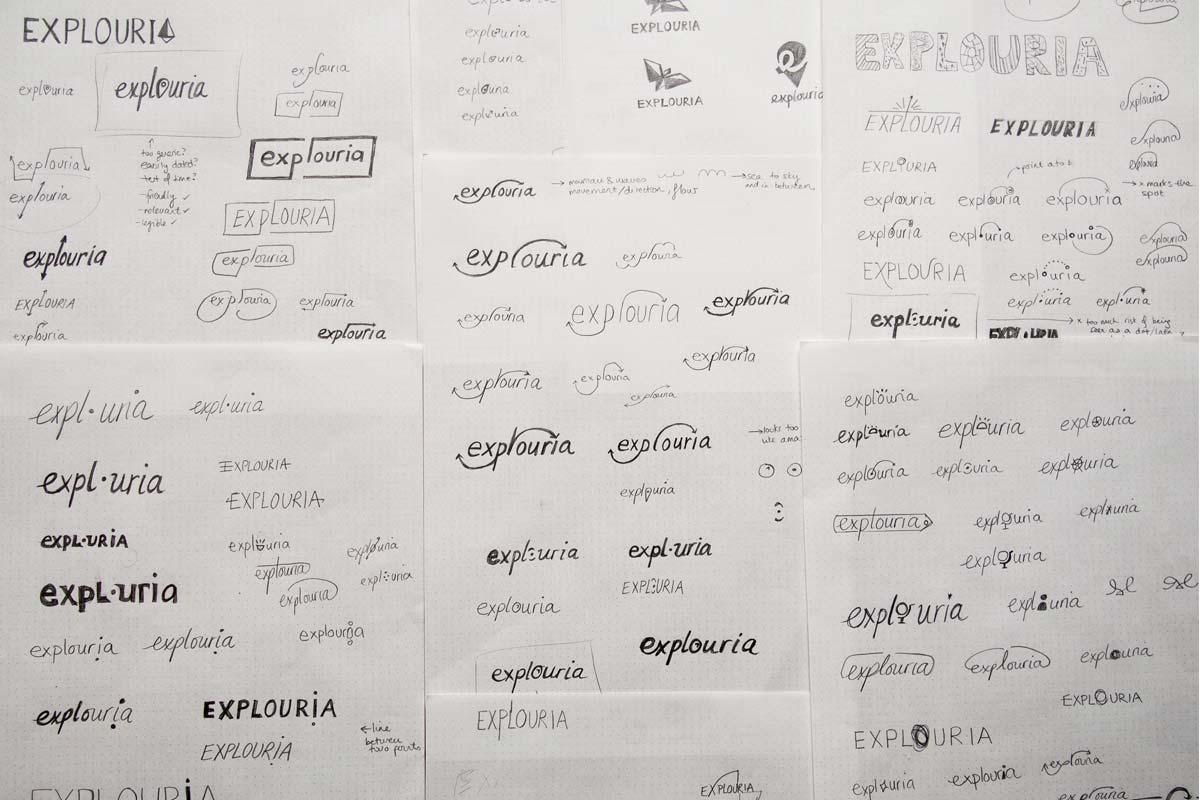
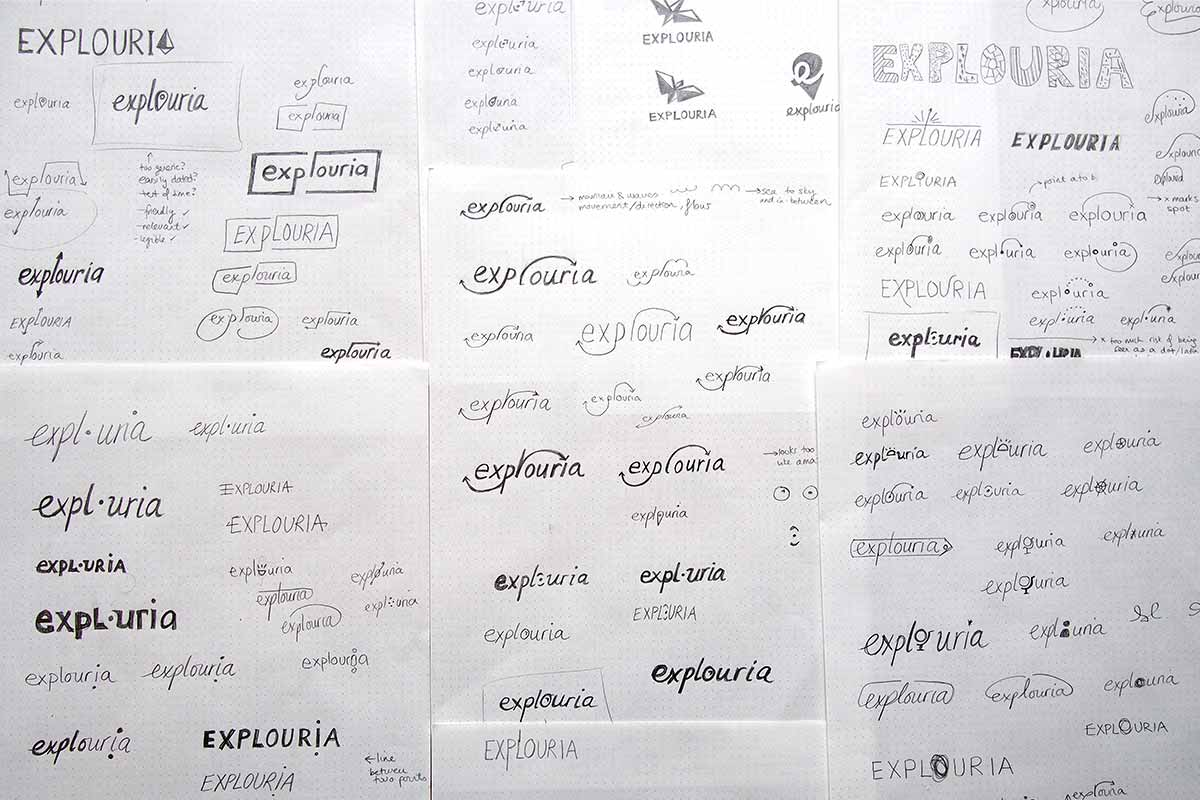
updates case study images

diff --git a/css/main.css b/css/main.css
@@ -203,7 +203,7 @@ nav a:active {
             rgba(0, 0, 0, 0.45)
         ),
         no-repeat center bottom / 100% 80%,
-        url("../img/hero.jpg") no-repeat center top;
+        url("../img/viv-cover.jpg") no-repeat center top;
     background-size: cover;
     padding-top: 56.25%;
 }
@@ -303,8 +303,9 @@ nav a:active {
     padding: 1.25rem 1.5rem;
     text-decoration: none; 
     display: block;
-    color: #FFFFFF;
-    background-color: #ee2307; 
+    color: #ee2307;
+    background-color: white; 
+    border: 1px solid #ee2307;
     text-align: center;
     margin: 2em auto 0 auto;
     letter-spacing: 1px;
@@ -493,6 +494,11 @@ nav a:active {
 }
 
 .exp-box:hover {
+    border: 0;
+    background-image:
+        linear-gradient(to right, rgba(0,0,0,.1) 0, transparent 10px),
+        linear-gradient(to bottom, rgba(0,0,0,.1) 0, transparent 10px)
+    ;
     border: 1px solid #F0F0F0;
     box-shadow: 0px 0px 0px white;
 }
@@ -504,11 +510,7 @@ nav a:active {
 }
 
 .exp-box:active {
-    border: 1px solid #F0F0F0;
-    background-image:
-        linear-gradient(to right, rgba(0,0,0,.1) 0, transparent 10px),
-        linear-gradient(to bottom, rgba(0,0,0,.1) 0, transparent 10px)
-    ;
+        color: #dfb45c;
 }
 
 .exp-box img {

diff --git a/_layouts/case-study-a.html b/_layouts/case-study-a.html
@@ -33,12 +33,6 @@ layout: default
     </div>
 </div>
 
-<div class="grid">
-    <div class="unit unit-xs-1 unit-s-1 unit-m-1 unit-l-1 unit-xl-1 push-2">
-        <img class="full-bleed" src="{{site.baseurl}}/img/{{page.img-3}}" alt="{{page.img-3-alt}}">
-    </div>
-</div>
-
 <div class="grid body-wrapper pad-t-1-2 pad-b-1-2">
     <div class="unit unit-xs-1 unit-s-1 unit-m-1 unit-l-1-2 gutter">
         <h2 class="peta underline">Key Challenges</h2>
@@ -67,8 +61,8 @@ layout: default
 <div class="grid body-wrapper pad-t-1-2 pad-b-1-2 deck">
     <div class="unit unit-xs-1 unit-s-1 unit-m-1 unit-l-1 gutter center-flex">
         <h2 class="peta underline">Like my work?</h2>
-        <p class="body push-2">I'm always interesting in chatting about new opportunities to collaborate with other designers or work with new clients.</p>
-        <a class="btn-red" href="mailto:hello@vivkay.com">Email me!</a>
+        <p class="body push-2">I'm always interested in chatting about new opportunities!</p>
+        <a class="btn-gold-inverse" href="mailto:hello@vivkay.com">Email me</a>
     </div>
 </div>
 

diff --git a/explouria.html b/explouria.html
@@ -6,13 +6,13 @@ title: ux tool
 overview: tool
 next-piece: "pointer-ux-tool/"
 next-piece-title: Pointer – UX Research App
-img-2: explouria-sketches-thin.jpg
+img-2: explouria-sketches.jpg
 img-2-alt: Photograph of sketchbook pages
 img-3: explouria-process.jpg
 img-3-alt: Final moodboard, logo sketches and digital variants
 img-4: explouria-tote.jpg
 img-4-alt: Logo mockup on tote bag. Photo of Burano, Venice © Vivienne Kay.
-img-5: explouria-stationary.jpg
+img-5: explouria-overview.jpg
 img-5-alt: Logo mockup on stationary set
 hero: explouria-hero.jpg
 

diff --git a/index.html b/index.html
@@ -8,7 +8,7 @@ changefreq: monthly
 
 <div class="hero-content">
     <h1 class="push-0"><img class="logo-main" src="{{ site.baseurl }}/img/logo-vk-red.svg" alt="Vivienne Kay"></h1>
-    <p class="hero-tag pad-t-1-2">UI design gives me tingles</p>
+    <p class="hero-tag pad-t-1-2">I get jazzed about user-interaction design</p>
     <a class="btn-cta" href="#contact">say hello</a>
 </div>    
 

diff --git a/pointer-ux-tool.html b/pointer-ux-tool.html
@@ -7,7 +7,7 @@ overview: tool
 next-piece: "zoo-app/"
 next-piece-title: Central Park Zoo App
 
-img-2: pointer-userflow.jpg
+img-2: pointer-sketches.jpg
 img-2-alt: Scan of sketched user-flow
 img-3: pointer-process.jpg
 img-3-alt: Image of low-fidelity sketches and wireframes
